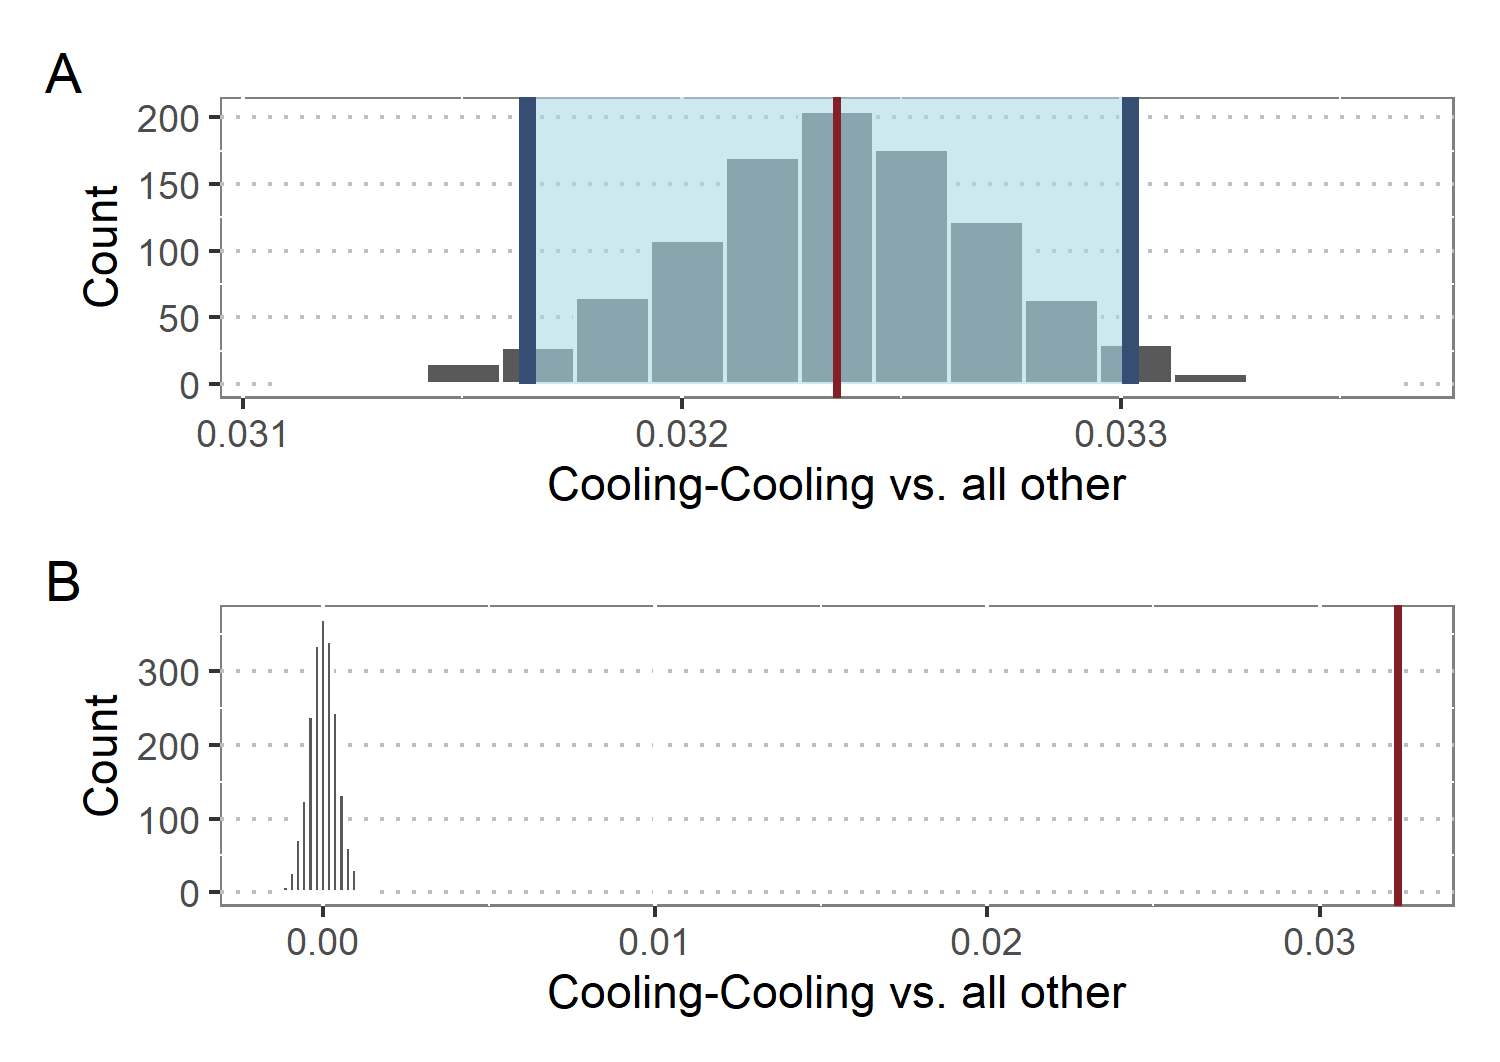
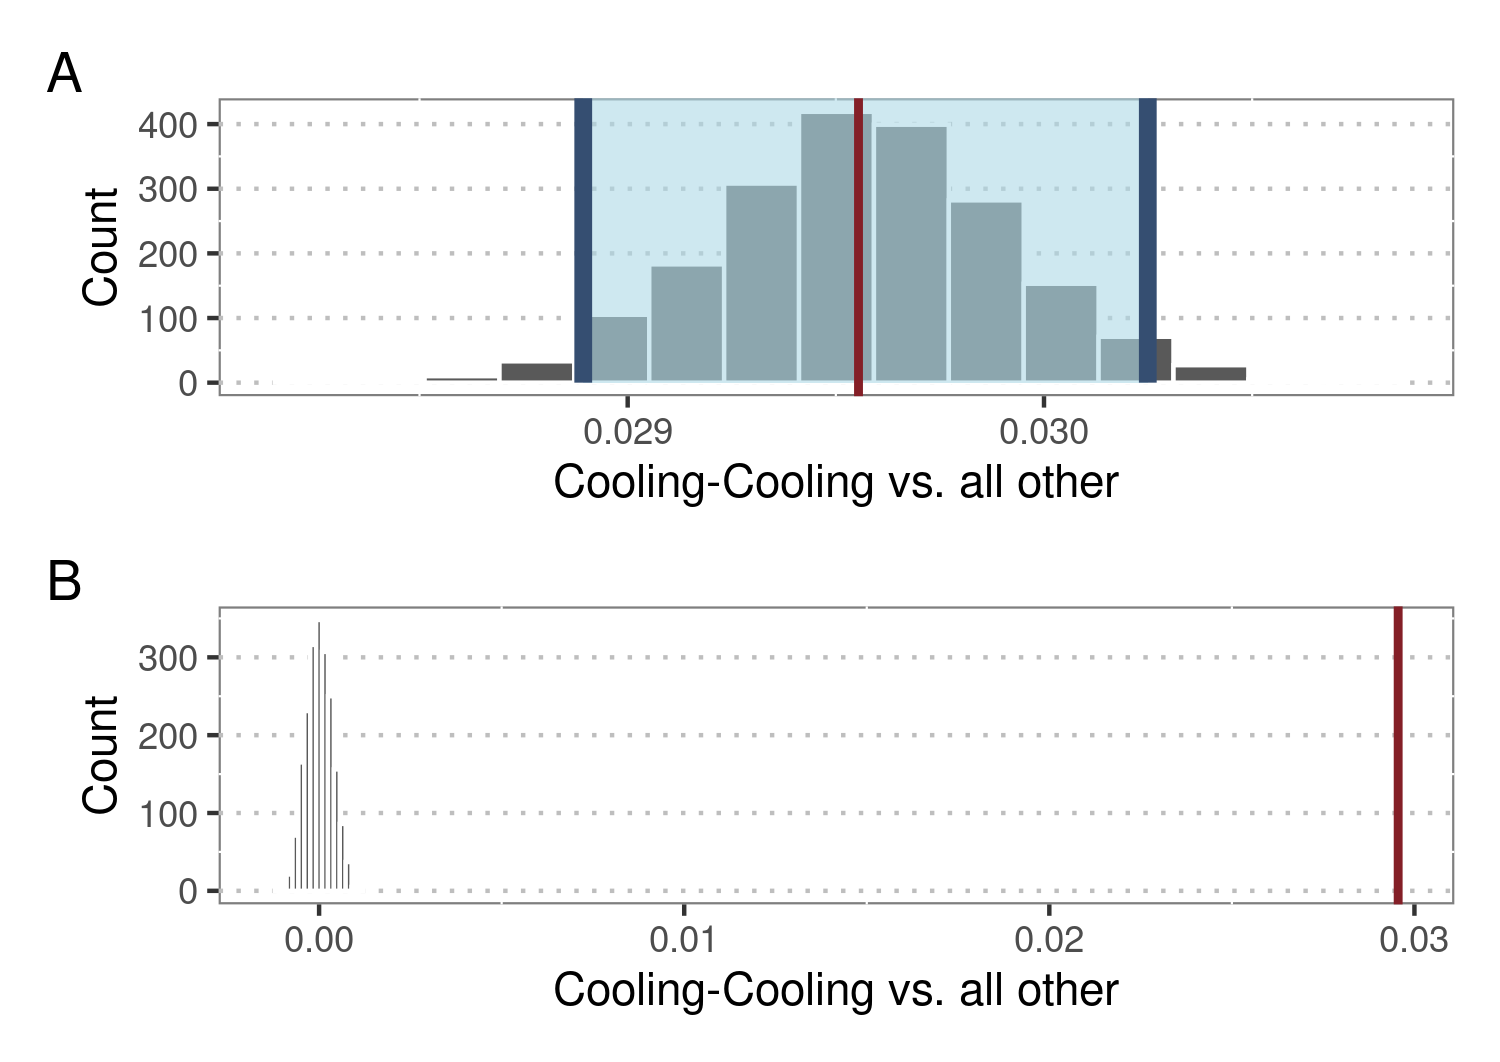
update effect size

diff --git a/README.md b/README.md
@@ -6,3 +6,4 @@ This the R project to the second (potential) publication for PastKey covering pa
   
 1. Data_preparation.R  
 2. model_comparison.R  
+3. pal_int_comparison.R
